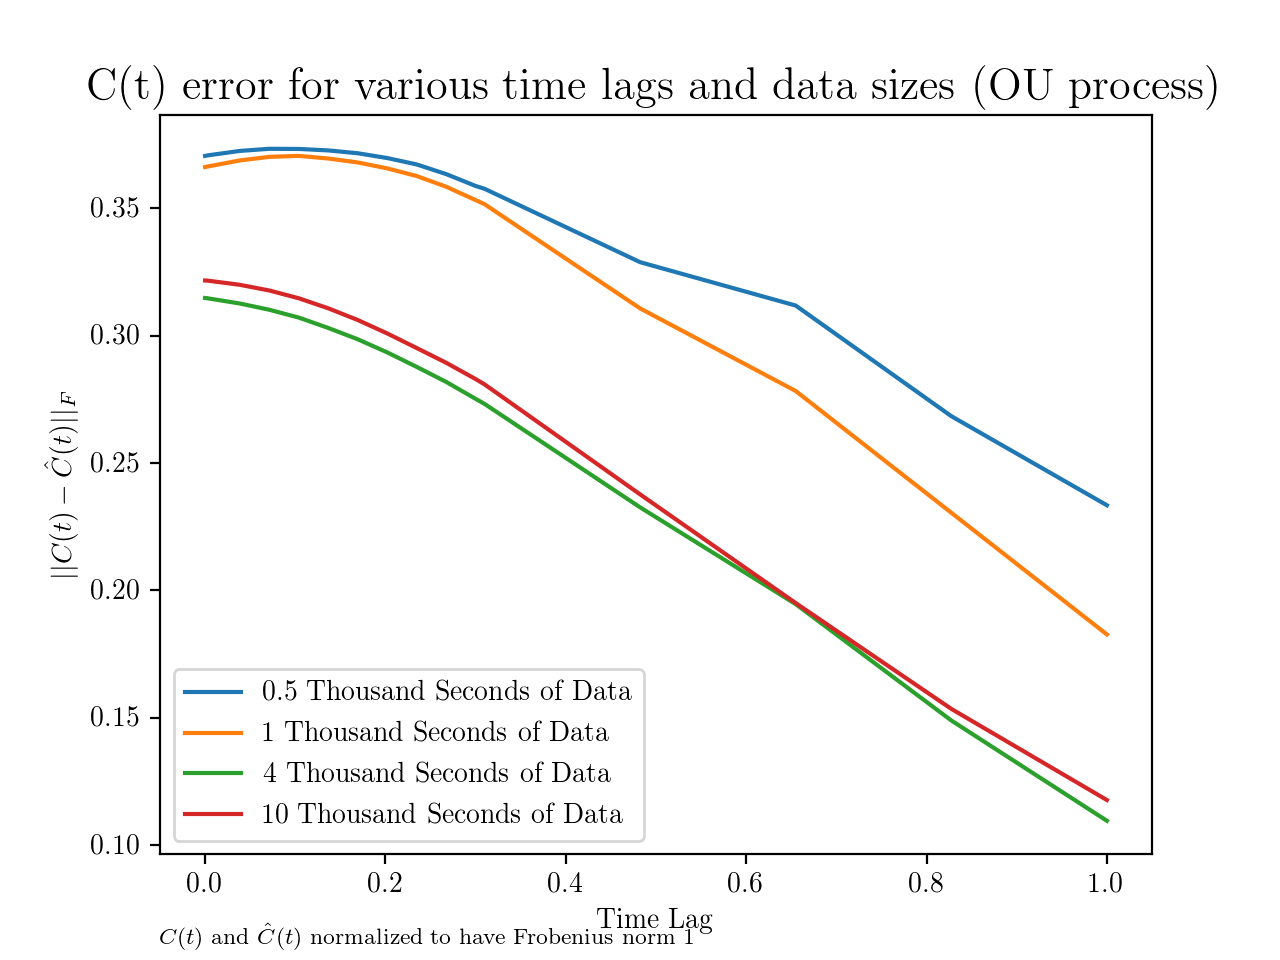
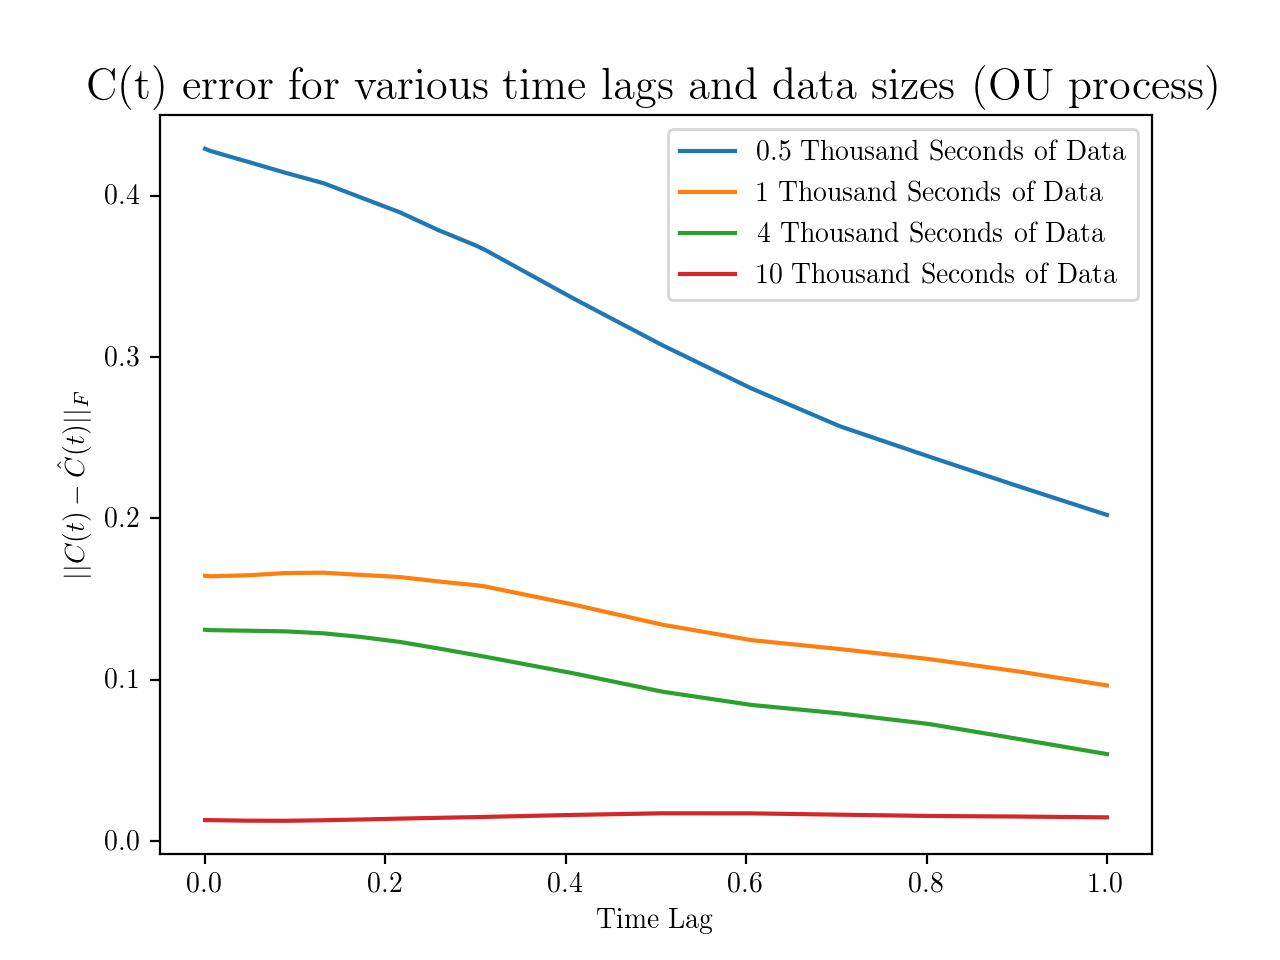
corrected some bugs

diff --git a/models_and_functions.py b/models_and_functions.py
@@ -41,19 +41,19 @@ class simulate(object):
         speed: int, float, to 1D array
         '''
 
-        if type(speed) == int or type(speed) == float:
-            speed = np.array([speed])
-        if self.n % len(speed) != 0:
-            raise ValueError("Number of samples must be divisible by number of speeds.")
+        # if type(speed) == int or type(speed) == float:
+        #     speed = np.array([speed])
+        # if self.n % len(speed) != 0:
+        #     raise ValueError("Number of samples must be divisible by number of speeds.")
 
-        speed = np.tile(np.array(speed), self.n // len(speed))
+        # speed = np.tile(np.array(speed), self.n // len(speed))
 
         N = round(self.T/self.delta_t)
         now = np.random.normal(np.zeros(self.n),1)
         storage = np.zeros((self.n, N))
-        m = np.exp(-speed*self.delta_t)
+        m = np.exp(-self.delta_t)
         sigma = np.sqrt(1 - np.square(m))
-        R = np.random.normal(0, np.matrix(sigma).T, [self.n, N])
+        R = np.random.normal(0, 1, [self.n, N]) * sigma
         update_time = round(.01*N)
         for i in range(N):
             storage[:,i] = now
@@ -128,12 +128,12 @@ class VAC(object):
         if len(trajectory) % dimension != 0:
             raise ValueError('Dimension of trajectory not divisible by dimension desired.')
         self.basis = basis
-        self.N = len(trajectory[0,:])
         self.trajectory = trajectory
         self.time_lag = time_lag
         self.lag = np.rint(time_lag / delta_t).astype(int)
+        self.N = int(len(trajectory) / dimension) * (len(trajectory[0,:]) - self.lag)
         self.dimension = dimension
-        self.X = np.array([b(np.hstack([trajectory[d:d+dimension, 0:(self.N - self.lag)] for d in range(0,len(trajectory), dimension)])) for b in basis])
+        self.X = np.array([b(np.hstack([trajectory[d:d+dimension, 0:(len(trajectory[0,:]) - self.lag)] for d in range(0,len(trajectory), dimension)])) for b in basis])
         self.Y = np.array([b(np.hstack([trajectory[d:d+dimension, self.lag:] for d in range(0,len(trajectory), dimension)])) for b in basis])
         # self.X = np.array([b(trajectory[0:dimension,0:(self.N - self.lag)]) for  b in basis])
         # self.Y = np.array([b(trajectory[:,self.lag:]) for b in basis])
@@ -144,13 +144,13 @@ class VAC(object):
         '''
         This is a matrix of E[f_i(X_0)f_j(X_0)] for f_i,f_j basis functions.
         '''
-        return (np.matmul(self.X, self.X.T) + np.matmul(self.Y, self.Y.T)) / (2*self.N)
+        return (np.matmul(self.X, self.X.T) + np.matmul(self.Y, self.Y.T)) / (2*(self.N  - 1))
 
     def C_t(self):
         '''
         This is a matrix of E[f_i(X_(delta_t))f_j(X_0)] for f_i,f_j basis functions.
         '''
-        return (np.matmul(self.X, self.Y.T) + np.matmul(self.Y, self.X.T)) / (2 * self.N)
+        return (np.matmul(self.X, self.Y.T) + np.matmul(self.Y, self.X.T)) / (2 * (self.N - 1))
 
     def find_eigen(self, m):
         C_t = self.C_t()
@@ -191,62 +191,71 @@ def L2subspaceProj_d(w_f, w_g, distribution, Phi_f = False, Phi_g = False, basis
             return "Error: Must have a basis for f's supplied if no Phi_f given."
         else:
             A = np.array([f(distribution) for f in basis_f])
-            # print(A)
+            print(A)
 
     if type(Phi_g) == bool:
         if type(basis_f) == bool:
             return "Error: Must have a basis for g's supplied if no Phi_g given."
         else:
             B = np.array([g(distribution) for g in basis_g])
-            # print(B)
+            print(B)
 
     else:
         A = Phi_f
         B = Phi_g
 
     A = np.dot(w_f, A)
-    # print(A)
+    print(A)
 
     B = np.dot(w_g, B)
-    # print(B)
+    print(B)
 
     P = np.dot(A,B.T)
-    # print(P)
+    print(P)
 
     N = 1 / np.tensordot(np.sqrt(np.sum(np.square(A), axis = 1)), np.sqrt(np.sum(np.square(B), axis = 1)), axes = 0)
-    # print(N)
+    print(N)
 
     P = np.multiply(P, N)
-    # print(P)
+    print(P)
     svd = np.linalg.svd(P)[1]
     print(svd)
+    print(len(w_f)**2 - np.sum(np.square(svd)))
 
-    if len(w_f) < np.sum(np.square(svd)) < len(w_f) + 1e-13:
+    if len(w_f)**2 < np.sum(np.square(svd)) < len(w_f)**2 + 1e-13:
         return 0
-    elif np.sum(np.square(svd)) > len(w_f):
+    elif np.sum(np.square(svd)) > len(w_f)**2:
         return "Singular values are too large, probably not normalized correctly."
     else:
         return np.sqrt(len(w_f) - np.sum(np.square(svd)))
 
 
 def f(x):
-    return np.squeeze(np.array(np.sum(np.square(x+1), axis = 0)))
+    return np.squeeze(x)
 
 def h(x):
-    return np.squeeze(np.array(np.sum(x+1, axis = 0)))
+    return np.squeeze(x**2)
 
 def g(x):
-    return np.squeeze(np.sin(x))
+    return np.squeeze(x**3)
 
 def k(x):
+    return np.squeeze(x**4)
+
+def l(x):
+    return np.squeeze(x**5)
+
+def p(x):
+    return np.squeeze(np.sin(x))
+
+def s(x):
     return np.squeeze(np.cos(x))
 
-t = np.array([np.linspace(-2,2,5)])
+t = np.array(np.linspace(0,1,2))
 
-print(L2subspaceProj_d(w_f = np.array([[1,0],[1,0]]), w_g = np.array([[0,1],[0,1]]),
-                distribution = t, basis_f = np.array([g,k]), basis_g = np.array([g,k])))
+print(L2subspaceProj_d(w_f = np.identity(3), w_g = np.identity(3),
+                distribution = t, basis_f = np.array([f,f,f]), basis_g = np.array([f,f,f])))
 
-t = np.ones([10,5])
 #
 # V = VAC([f,h], t, 1, 1, dimension = 2)
 #

diff --git a/Testing_Modules/conjecture2_OU.py b/Testing_Modules/conjecture2_OU.py
@@ -5,7 +5,7 @@ import numpy as  np
 import matplotlib.pyplot as plt
 import matplotlib.path as path
 from hermite_poly import Hermite, Poly
-from simple_models import simulate, VAC, well_well, makegrid, fcn_weighting, L2subspaceProj_d, OU, dot
+from models_and_functions import simulate, VAC, well_well, makegrid, fcn_weighting, L2subspaceProj_d, OU, dot
 from mpl_toolkits import mplot3d
 from basis_sets import indicator
 from numpy import exp,arange
@@ -13,11 +13,11 @@ from pylab import meshgrid,cm,imshow,contour,clabel,colorbar,axis,title,show
 import tables as tb
 
 dimension = 1
-fineness  = 15
+fineness  = 4
 endpoint = 2.5
+basis = [indicator(fineness, endpoint, center = i).to_fcn() for i in  makegrid(endpoint, dimension = dimension, n = fineness)]
 basis = [Hermite(0).to_fcn()]
 basis = basis + [Hermite(n, d).to_fcn() for n in range(1, fineness) for d in range(dimension)]
-basis = [indicator(fineness, endpoint, center = i).to_fcn() for i in  makegrid(endpoint, dimension = dimension, n = fineness)]
 basisSize = len(basis)
 delta_t = .0001
 T = 1000
@@ -26,12 +26,15 @@ length = round(T / delta_t)
 print("Now opening trajectory data.")
 h5 = tb.open_file("Trajectory_Data/OU_1D_delta_t={},T={},n={}.h5".format(delta_t, T, n), 'r')
 a = h5.root.data
-t = np.array(a[10:14,:])
+t = np.array(a[30:34,:])
 h5.close()
 
-time_lag = np.hstack([np.linspace(delta_t, .005, 3), np.linspace(.006, .3, 10), np.linspace(.31, 1, 5)])
+time_lag = np.hstack([np.linspace(delta_t, .005, 3), np.linspace(.006, .3, 5), np.linspace(.31, 1, 5)])
 print("Now getting eigenvalues.")
 evs = [VAC(basis, t, l, delta_t, dimension = dimension, update = True).find_eigen(basisSize) for l in time_lag]
+np.save("Trajectory_Data/egalue_hermite_shortlag_shortlag.npy", np.array([ev[0] for ev in evs]))
+np.save("Trajectory_Data/egvector_hermite_shortlag_shortlag.npy", np.array([ev[1] for ev in evs]))
+
 print("Now calculating error.")
 
 distribution = np.random.normal(np.zeros([dimension,int(1e6)]), 1)
@@ -45,9 +48,11 @@ Phi_g = np.array([f(distribution) for f in basis])
 Phi_f = np.array([f(distribution) for f in basis_true])
 
 
-eigen_dist = [ev[0][basisSize - m] - ev[0][basisSize - m - 1] for ev in evs]
+# eigen_dist = [ev[0][basisSize - m] - ev[0][basisSize - m - 1] for ev in evs]
 
-error = [L2subspaceProj_d(w_f = w_f, w_g = ev[1].T[basisSize - m:][::-1],
+evs = np.load("Trajectory_Data/egvector_hermite_shortlag_shortlag.npy", allow_pickle = True)
+
+error = [L2subspaceProj_d(w_f = w_f, w_g = ev.T[basisSize - m:][::-1],
                         distribution = distribution, Phi_f = Phi_f, Phi_g = Phi_g)
                         for ev in evs]
 
@@ -55,11 +60,11 @@ plt.plot(time_lag, error)
 plt.xlabel("Time Lag")
 plt.ylabel("Projection Error in estimated subspaces")
 plt.title("Error in estimation with varying time lags (OU process)")
-plt.annotate("Using a basis of 10 evenly spaced indicator functions on [-2.5,2.5]", (0,0), (0, -28), fontsize = 8, xycoords='axes fraction', textcoords='offset points', va='top')
+plt.annotate("Using a basis of first 15 Hermite functions", (0,0), (0, -30), fontsize = 8, xycoords='axes fraction', textcoords='offset points', va='top')
 
-plt.savefig("Graphs/timeLag_error_delta_t={},T={},Ibasis={}.png".format(delta_t, T, fineness, basisSize))
-
-ev = [[ev[0][i] for ev in evs] for i in range(m)]
+# plt.savefig("Graphs/timeLag_error_delta_t={},T={},Ibasis={}.png".format(delta_t, T, fineness, basisSize))
+evs = np.load("Trajectory_Data/egalue_hermite_shortlag_shortlag.npy", allow_pickle = True)
+ev = [[ev for ev in evs] for i in range(m)]
 [plt.plot(time_lag, ev[i]) for i in range(m)]
 
 plt.legend()
@@ -75,24 +80,24 @@ print([i for i in range(len(error)) if error[i] == min(error)])
 CODE FOR PLOTTING BELOW
 """
 
+ev = evs[0]
+estimated = [fcn_weighting(basis, v) for v in ev.T][::-1]
+true = [fcn_weighting(basis_true, v) for v in w_f]
 
-# estimated = [fcn_weighting(basis, v) for v in ev[1].T][::-1]
-# true = [fcn_weighting(basis_true, v) for v in w_f]
-#
-# z = np.array([np.linspace(-1.2,1.2,300)])
-# w = [h(z) for h in estimated]
-# y = [h(z) for h in true]
-#
-# plt.plot(z[0],w[0], "-r", label = "First")
-# plt.plot(z[0],w[1], "-b", label = "Second")
-# plt.plot(z[0],w[2], "-g", label = "Second")
-#
-# plt.plot(z[0],y[0], "-r", label = "First")
-# plt.plot(z[0],y[1], "-b", label = "Second")
-# plt.plot(z[0],y[2], "-g", label = "Second")
-#
-# plt.legend()
-# plt.show()
+z = np.array([np.linspace(-1.2,1.2,300)])
+w = [h(z) for h in estimated]
+y = [h(z) for h in true]
+
+plt.plot(z[0],w[0], "-r", label = "First")
+plt.plot(z[0],w[1], "-b", label = "Second")
+plt.plot(z[0],w[2], "-g", label = "Second")
+
+plt.plot(z[0],y[0], "-r", label = "First")
+plt.plot(z[0],y[1], "-b", label = "Second")
+plt.plot(z[0],y[2], "-g", label = "Second")
+
+plt.legend()
+plt.show()
 
 
 if dimension == 2:

diff --git a/Testing_Modules/Testing_shortTimeScales.py b/Testing_Modules/Testing_shortTimeScales.py
@@ -6,7 +6,7 @@ import matplotlib.pyplot as plt
 from matplotlib import rc
 import matplotlib.path as path
 from hermite_poly import Hermite, Poly
-from simple_models import simulate, VAC, well_well, makegrid, fcn_weighting, L2subspaceProj_d, OU, dot
+from models_and_functions import simulate, VAC, well_well, makegrid, fcn_weighting, L2subspaceProj_d, OU, dot
 from mpl_toolkits import mplot3d
 from basis_sets import indicator
 from numpy import exp,arange
@@ -29,36 +29,31 @@ length = round(T / delta_t)
 print("Now opening trajectory data.")
 h5 = tb.open_file("Trajectory_Data/OU_1D_delta_t={},T={},n={}.h5".format(delta_t, T, n), 'r')
 a = h5.root.data
-t = np.array(a[10:20,:])
+t = np.array(a[30:40,:])
 h5.close()
 
-time_lag = np.hstack([np.linspace(delta_t, .005, 3), np.linspace(.006, .3, 10), np.linspace(.31, 1, 5)])
+time_lag = np.hstack([np.linspace(delta_t, .005, 2), np.linspace(.006, .3, 8), np.linspace(.31, 1, 8)])
 C_t = [np.array([[1,0,0],[0,np.exp(-t),0],[0,0,np.exp(-2*t)]]) for t in time_lag]
 
-data_sizes = [.5,1, 4,10]
+data_sizes = [.5,1,4,10]
 
 for i in data_sizes:
     s = t[0:math.ceil(i), : int((length * i / math.ceil(i)))]
     print(s.shape)
     print("Now caclulating C_t's.")
     C_tHat = [VAC(basis, s, l, delta_t, dimension = dimension, update = True).C_t()[0:3,0:3] for l in time_lag]
-    np.save("shortLag_{}Seconds.npy".format(i), np.array([time_lag, C_tHat]))
-    print("Now calculating error.")
-    error = [np.linalg.norm(C / np.linalg.norm(C) - C_hat / np.linalg.norm(C_hat)) for C, C_hat in zip(C_t, C_tHat)]
-    plt.plot(time_lag, error, label = "{} Seconds of Data".format(i))
-    plt.show()
-    plt.legend()
+    np.save("Trajectory_Data/shortLag_{}Seconds.npy".format(i), np.array([time_lag, C_tHat]))
 
 plt.rc('text', usetex=True)
 plt.rc('font', family='serif')
 for i in data_sizes:
-    time_lag, C_hat = np.load("shortLag_{}Seconds.npy".format(i), allow_pickle = True)
-    error = [np.linalg.norm(C / np.linalg.norm(C, 2) - C_h / np.linalg.norm(C_h, 2), 2) for C, C_h in zip(C_t, C_hat)]
+    time_lag, C_hat = np.load("Trajectory_Data/shortLag_{}Seconds.npy".format(i), allow_pickle = True)
+    error = [np.linalg.norm(C - C_h, 2) for C, C_h in zip(C_t, C_hat)]
     plt.plot(time_lag, error, label = "{} Thousand Seconds of Data".format(i))
 
 plt.legend()
 plt.xlabel("Time Lag")
 plt.ylabel(r"$||C(t) - \hat{C}(t)||_{2}$")
-plt.annotate("$C(t)$ and $\hat{C}(t)$ normalized to have 2-norm 1", (0,0), (0, -28), fontsize = 8, xycoords='axes fraction', textcoords='offset points', va='top')
+# plt.annotate("$C(t)$ and $\hat{C}(t)$ normalized to have 2-norm 1", (0,0), (0, -28), fontsize = 8, xycoords='axes fraction', textcoords='offset points', va='top')
 plt.title("C(t) error for various time lags and data sizes (OU process)", fontsize = 16)
 plt.savefig("Graphs/C(t)_error_2.png")

diff --git a/hermite_poly.py b/hermite_poly.py
@@ -7,17 +7,17 @@ import matplotlib.pyplot as plt
 
 class Hermite(object):
 
-    def __init__(self, n, d = 0):
+    def __init__(self, n, d = 1):
         self.n = n
         self.d = d
 
     def eval(self, x):
-        x = np.matrix(x)[self.d,:]
+        x = np.matrix(x)[self.d - 1,:]
         y = 0
         for m in range(self.n // 2 + 1):
             y += (-1)**m * np.power(x, (self.n - 2*m)) / (factorial(m)*factorial(self.n - 2*m) * 2 ** m)
 
-        return np.squeeze(np.array(factorial(self.n) * y))
+        return np.squeeze(np.array(np.sqrt(factorial(self.n)) * y))
 
     def to_fcn(self):
         def g(x):

diff --git a/basis_sets.py b/basis_sets.py
@@ -5,7 +5,7 @@ import numpy as  np
 import matplotlib.pyplot as plt
 import matplotlib.path as path
 from hermite_poly import Hermite
-from simple_models import simulate, VAC, well_well
+from models_and_functions import simulate, VAC, well_well
 
 class indicator(object):
     """Makes an indicator function. Meant to be used to make a grid of indicator
